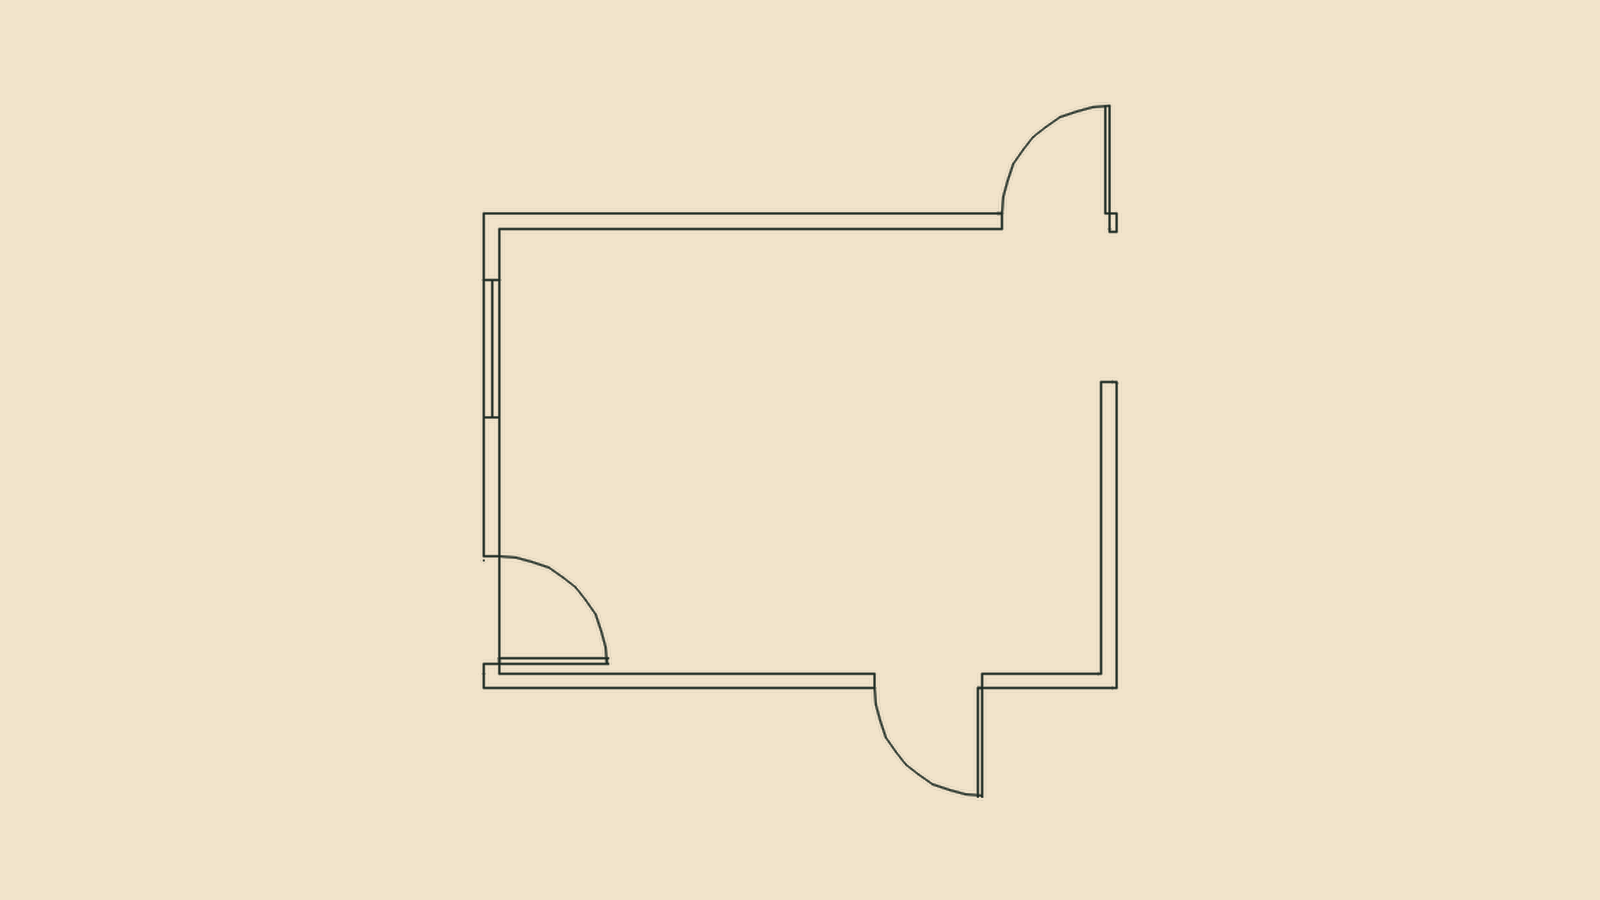
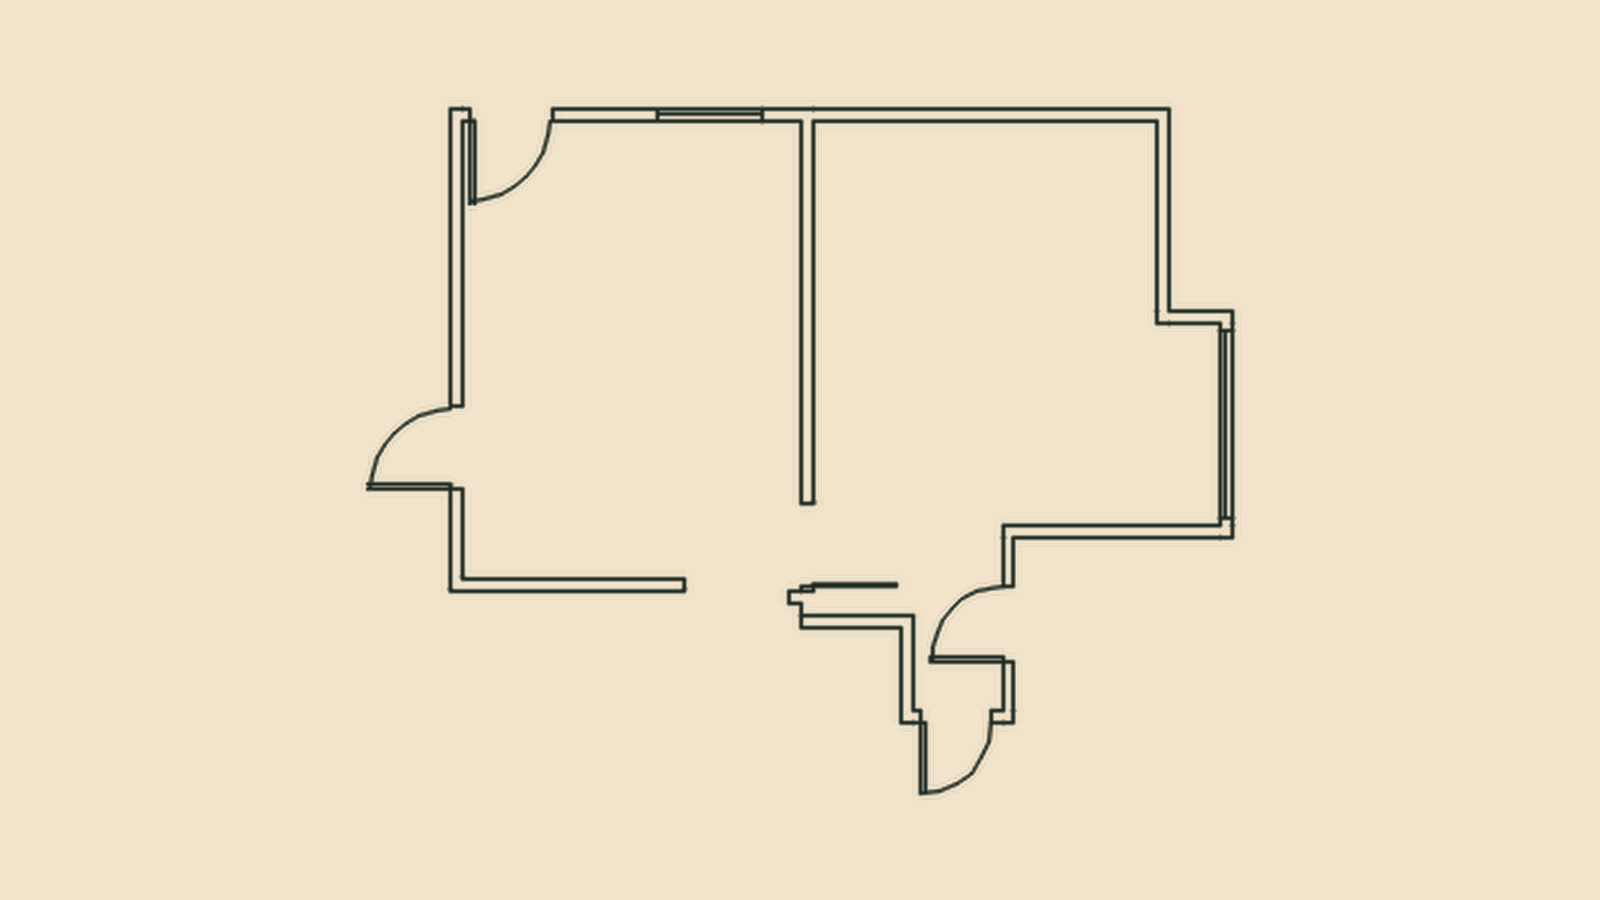
Update the apartment survey to the newer drawing
Two exports arrived a minute apart, both raw AutoCAD at 1920x762. "Pt 2" is the
fuller one -- it adds an internal partition dividing two rooms, two more door
swings and a stepped corridor at the lower right -- so that is the one used. The
other, exported from a wider zoom, held less of the plan at half the resolution.

Processed the same way as before: cropped to the linework, AutoCAD's ground
normalised away, luminance remapped onto --paper-3 and an ink near --ink-2. The
header's faint plan is regenerated from the same source, so both places show the
current drawing. The raw export is removed from the published folder.

Alt text follows the drawing rather than the old one: the partition, four door
swings, the window in the top wall, the corridor.

One caveat worth recording. The linework in this export is 376x303, so filling
the 1132px slot enlarges it 2.4x and it is softer than the version it replaces,
which needed only 1.4x. PNGOUT captures the current view at screen resolution,
so zooming the plan to fill the AutoCAD window before exporting -- or using PLOT
with a Window and monochrome.ctb -- gives a sharper file at no extra effort.

Changed region(s): [[0.2188, 0.0933, 0.7812, 0.7467], [0.2812, 0.6222, 0.6875, 0.9022], [0.5938, 0.6533, 0.625, 0.6844]]

diff --git a/projects.html b/projects.html
@@ -75,7 +75,7 @@
     <div class="wrap media-wide reveal">
       <img class="p-feature-shot"
            src="assets/projects/apartment-survey.png"
-           alt="Floor plan of the apartment in progress: outer walls drawn to scale, with two door swings, a window on the left wall, and an opening through at the lower right"
+           alt="Floor plan of the apartment in progress: outer walls, an internal partition dividing two rooms, four door swings, a window in the top wall, and a stepped corridor at the lower right"
            width="1600" height="900">
     </div>
 
